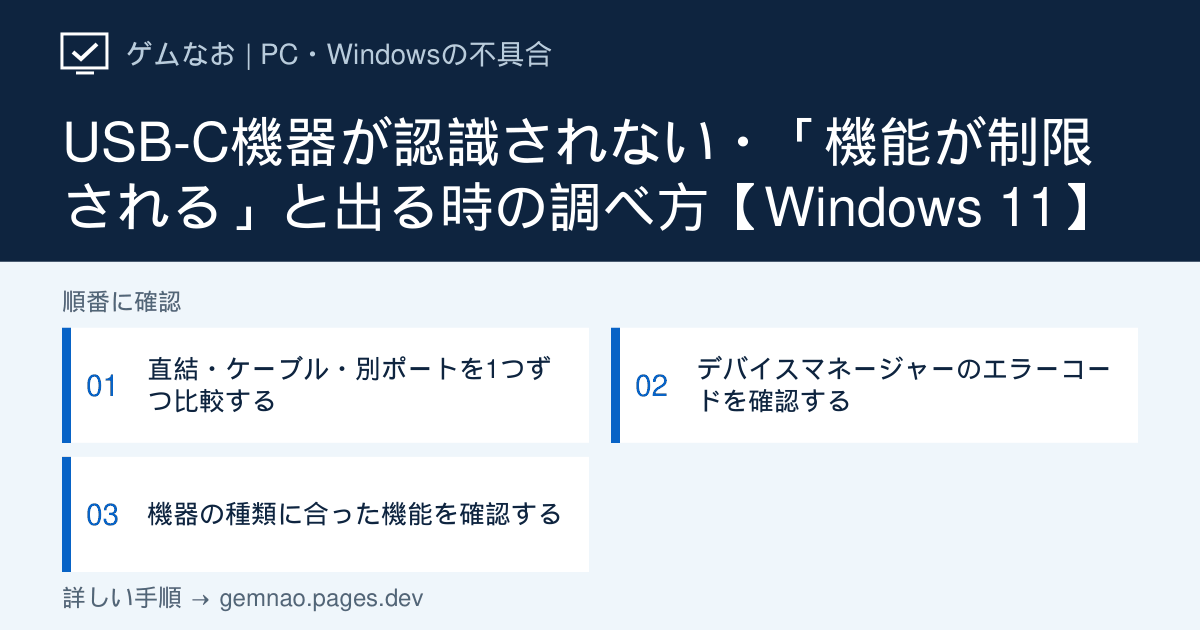
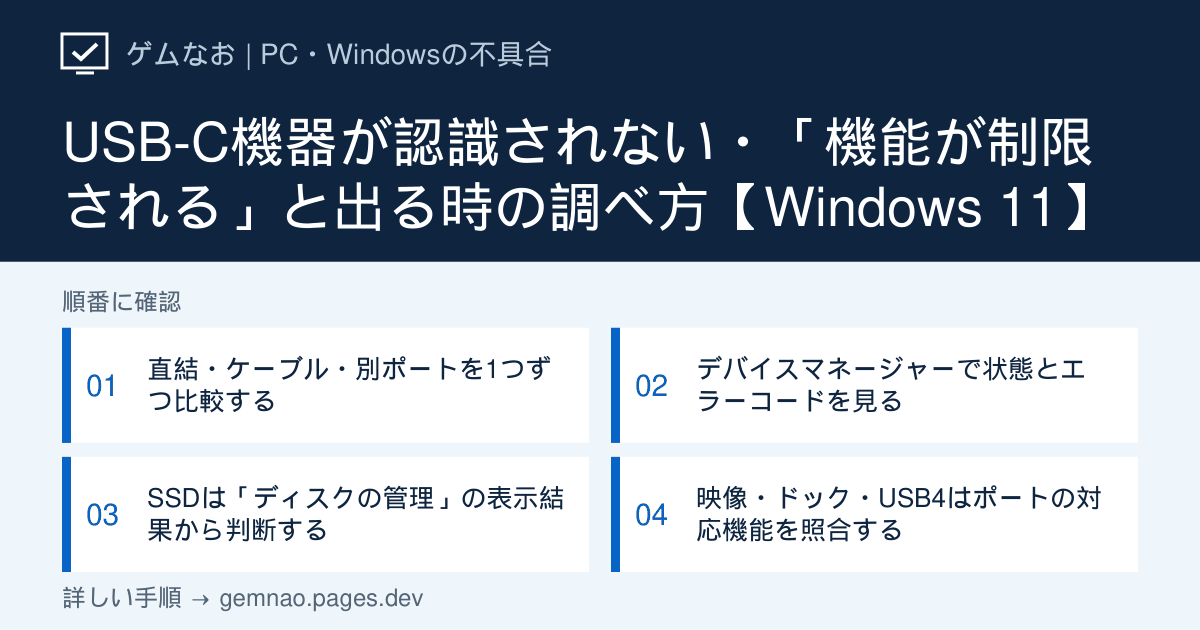
Clarify USB-C errors and storage outcomes

diff --git a/lib/pc-articles.ts b/lib/pc-articles.ts
@@ -13,6 +13,7 @@ export type PcArticle = {
   steps: {
     title: string;
     actions: string[];
+    resultRows?: { state: string; meaning: string; next: string }[];
     expected: string;
     unexpected: string;
     revert: string;
@@ -398,93 +399,163 @@ export const pcArticles: PcArticle[] = [
     shortTitle: 'USB-C機器が認識されない',
     seoTitle: 'USB-C機器が認識されない時の対処法｜Windows 11',
     description:
-      'USB-C機器が認識されない時、デバイスマネージャーのエラーコード、ケーブルとポートの機能、直結とハブを比べて切り分け。データを消さない確認手順。',
-    lead: 'USB-Cでつないだ周辺機器が使えない、または「USBデバイスが認識されません」「機能が制限される可能性があります」と出た場合の手順です。充電だけできる場合も含みます。',
+      'Windows 11でUSB-C機器が認識されない時の確認手順。ケーブル・ポート、コード28／43、SSDのディスク管理の表示結果、ドックやモニターの対応機能を分けて解説。',
+    lead: 'USB-Cの外付けSSD・ドック・モニターが使えない場合を、接続そのものの問題と機器ごとの機能の問題に分けます。「USBデバイスが認識されません」、充電だけできる、ディスク管理には表示される症状も対象です。',
     answer:
-      'まず機器を安全に取り外し、ハブを外して対応ケーブルでPCへ直接つなぎます。デバイスマネージャーで黄色い警告の「デバイスの状態」にコードがあれば記録し、機器の種類に合った公式手順へ進みます。USB-C端子は形が同じでも映像・充電・データの対応機能が異なります。',
+      'USB-C機器が認識されない時は、ハブを外してデータや映像に対応したケーブルで直結し、同じ機器を別ポートでも比べます。エラーコードはWindowsが報告した状態の手掛かりであり、コードだけでケーブルかドライバーかは断定できません。外付けSSDがエクスプローラーにない場合は「ディスクの管理」で表示状態を確認し、正常だがドライブ文字がない場合と、未初期化・RAWの場合を分けて対応します。',
     quickChecks: [
-      'USBストレージなら読み書きを終了し、安全な取り外しを行う',
-      'ハブを外し、付属または対応が明記されたケーブルで直結して比較',
-      'デバイスマネージャーの警告とエラーコードを控える',
+      'USBストレージを外す前にコピーを終了し、利用できる場合は安全な取り外しを行う',
+      'ハブを外し、付属の対応ケーブルで直結して、別ポートと結果を比べる',
+      '警告があればコードを控え、SSDなら「ディスクの管理」に表示されるか調べる',
     ],
     diagnosis: [
       {
-        symptom: '充電はできるがデータ機器として認識されない',
-        check: '別ケーブル・別ポート・直結で同じ機器を比べる',
+        symptom: '充電はできるがデータを転送できない',
+        check: '付属のデータ対応ケーブルで直結し、別ポートと比べる',
         next: 1,
       },
       {
         symptom: '「USBデバイスが認識されません」や黄色い警告',
-        check: 'デバイスの状態とエラーコードを記録',
+        check: 'デバイスの状態を記録し、コードだけで原因を決めない',
         next: 2,
       },
       {
-        symptom: 'USB-Cモニターやドックだけ映像が出ない',
-        check: 'PCのポート・ケーブルの映像出力対応を確認',
+        symptom: 'SSDがエクスプローラーに出ない',
+        check: 'ディスクの管理で容量・状態・ドライブ文字を確認',
         next: 3,
       },
       {
-        symptom: 'ストレージだけ表示されない',
-        check: 'ディスクの管理で状態を確認。初期化・フォーマットはしない',
+        symptom: 'SSDは「正常」だがドライブ文字がない',
+        check: 'システム領域でない外付けボリュームか照合',
         next: 3,
+      },
+      {
+        symptom: 'SSDが「未割り当て」「RAW」「初期化されていません」',
+        check: '以前のデータが必要か、未使用の新品かを先に分ける',
+        next: 3,
+      },
+      {
+        symptom: 'USB-Cモニターやドックだけ映像が出ない',
+        check: 'PCのポート・ドック・ケーブルの映像対応を照合',
+        next: 4,
+      },
+      {
+        symptom: '「USB4／Thunderboltの機能が制限される」と表示',
+        check: '機器が要求する規格とPCのポートの対応を確認',
+        next: 4,
       },
     ],
     steps: [
       {
         title: '直結・ケーブル・別ポートを1つずつ比較する',
         actions: [
-          'USBメモリや外付けSSDならコピーを終了し、タスクバーの「ハードウェアを安全に取り外してメディアを取り出す」で停止してから抜く。',
-          'PCのハブ／ドックを外し、機器付属または必要な規格に対応したケーブルでPCへ直接つなぐ。1つの変数だけ変えて、接続音・通知・アプリの認識を確認する。',
-          '同じ機器とケーブルで別ポート、可能なら別PCも比較する。充電専用ケーブルではデータや映像を扱えないことがあるので、ケーブルの仕様を製造元で確認する。',
+          '外付けSSDやUSBメモリでコピー中なら終了する。取り外しアイコンが使える場合はタスクバーの「ハードウェアを安全に取り外してメディアを取り出す」で停止してから抜く。',
+          'ハブ・ドックを外し、機器に付属するか必要なデータ／映像の対応が明記されたケーブルでPCに直結する。接続通知、エクスプローラーやアプリでの表示、映像の有無を記録する。',
+          '次に「同じ機器とケーブルのまま別ポート」→「同じポートで別の対応ケーブル」→可能なら「同じ機器とケーブルを別PC」の順に、一度に1つだけ変えて比べる。充電できてもケーブルがデータや映像に対応するとは限らない。',
         ],
         expected:
-          '直結で使えるなら、ハブ・給電・ケーブル・対応規格が原因候補。直結のまま必要な機能だけ戻す。',
+          '直結なら動く場合はハブ／ドックや給電が候補。ケーブルだけ替えて動けば元のケーブルが候補。別PCでは使えるなら元のPCのポートや設定を調べる。',
         unexpected:
-          'どのポートでも認識せず警告が出るならSTEP 2。別PCでは動くならPC側のポートや設定を確認。',
+          '接続通知や黄色い警告が出るならSTEP 2。SSDがデバイスとしては認識されるがエクスプローラーにないならSTEP 3。映像だけ出ないならSTEP 4。',
         revert:
-          '安全な取り外し後、元のポート／ハブ接続に戻す。復旧するまでデータ転送を再開しない。',
+          '比較後は機器の案内に従い、ストレージなら安全に取り外して配線を戻す。動作した組み合わせを記録し、元の故障する接続へ戻す必要はない。',
       },
       {
-        title: 'デバイスマネージャーのエラーコードを確認する',
+        title: 'デバイスマネージャーで状態とエラーコードを見る',
         actions: [
-          'スタートで「デバイス マネージャー」を検索して開く。接続した時に新たに出る項目、または黄色い「!」がある項目を探す。',
-          'その項目を右クリック→プロパティ→全般→「デバイスの状態」。コード28、43など表示された文字をそのまま記録する。似た名前の別の周辺機器は操作しない。',
-          'コードに対応するMicrosoftの「デバイス マネージャーのエラー コード」と機器製造元の案内を確認。更新直後なら製造元の対応ドライバーの有無を見る。',
+          'スタートを右クリック→「デバイス マネージャー」。USB機器を抜き差しし、「ユニバーサル シリアル バス コントローラー」「ディスク ドライブ」「ほかのデバイス」で新たに現れる名前や黄色い警告を確認する。',
+          '新たに現れた機器を右クリック→「プロパティ→全般→デバイスの状態」でメッセージとコードをそのまま控える。別の機器やPC本体のコントローラーを推測で削除しない。',
+          'コード28なら必要なドライバーがない状態なので、機器・PCの型番に合うWindows 11対応版を製造元から探す。コード43ならWindowsが機器の問題を受けて停止した状態なので、STEP 1のケーブル・ポート・別PCの結果を併せて判断する。',
         ],
         expected:
-          'コードがあれば、ケーブルの問題とドライバーの問題を分けて次の対象を特定できる。',
+          'コード28はドライバー不足を示す。コード43は機器またはドライバーなどの問題があり得る状態を示し、コード単独ではケーブル不良かどうかを特定できない。',
         unexpected:
-          'コードがなく一覧にも現れなければSTEP 1の別ポート・別PCの結果を優先。コード28は必要なドライバーの案内を機器メーカーで確認する。',
+          'コードがなくても、SSDが「ディスク ドライブ」に見えるならSTEP 3。モニターやドックの映像だけが失敗するならSTEP 4。機器自体が現れなければSTEP 1の結果を製造元に伝える。',
         revert:
-          'このSTEPは表示を読むだけで設定変更はない。コードの確認だけで不明な機器を「アンインストール」しない。',
+          '状態を見るだけなら変更はない。対応ドライバーを導入して別の不具合が起きたら、導入した版を控えて製造元の案内に従い元の版へ戻す。',
       },
       {
-        title: '機器の種類に合った機能を確認する',
+        title: 'SSDは「ディスクの管理」の表示結果から判断する',
         actions: [
-          'モニターやドックならPCの仕様書で使用ポートの映像出力・DisplayPort Alternate Mode／USB4対応、ケーブルの対応機能を確認。映像だけの問題なら2台目モニターの記事へ。',
-          '外付けSSDならスタートの右クリック→「ディスクの管理」を開き、対象の容量と状態だけ確認。未割り当てや初期化を求める表示が出ても、既存データが必要なら「初期化」「フォーマット」は押さない。',
-          '機器・ポート・ケーブルの組合せで機能が異なるため、製品型番と接続図を控えてメーカーへ問い合わせる。',
+          'スタートを右クリック→「ディスクの管理」を開く。対象のSSDを容量・製品名・抜き差しした時の表示の変化で照合し、内蔵のWindows用ディスクや別のボリュームを選ばない。',
+          '対象が「ディスクの管理」にあるかを見て、「オンライン／オフライン」「正常／未割り当て／RAW」「ドライブ文字（例：E:）の有無」を記録する。表示を読むだけではデータは変更されない。',
+          '以前のファイルが必要なら、初期化やフォーマットを求める画面は進めず閉じる。未使用の新品だと確信できる場合と分け、下の結果表から次の操作を選ぶ。',
+        ],
+        resultRows: [
+          {
+            state: 'ディスクの管理に対象の容量がない',
+            meaning: 'Windowsがストレージ部分まで見つけられていない。',
+            next: 'STEP 1の直結・別ケーブル・別PCを比較。別PCだけ表示されるならPC側のポートやドライバーを製造元で確認する。',
+          },
+          {
+            state:
+              'オンライン・正常、NTFS／exFATなどのボリュームにドライブ文字がない',
+            meaning:
+              'ボリュームは認識されているが、エクスプローラーで開くための文字が未割り当ての可能性。',
+            next: '外付けデータ用のボリュームと確認できた時だけ右クリック→「ドライブ文字とパスの変更」→「追加」→未使用の文字→OK。管理者権限が必要。C:やWindows・アプリの領域は変更しない。',
+          },
+          {
+            state: 'オンライン・正常、ドライブ文字もある',
+            meaning: '接続とボリュームの認識は進んでいる。',
+            next: 'エクスプローラー→「PC」で同じ文字を探し、既存ファイルが読めるか確認。開けない・アクセス拒否なら表示された文言を控え、フォーマットは選ばない。',
+          },
+          {
+            state: 'オフライン／容量0 B',
+            meaning:
+              '給電や接続、ディスクの状態など複数の原因があり、この表示だけでは確定しない。',
+            next: '接続・電源・別PCの結果を照合。必要なデータがあるなら、理由が不明なままオンライン化や修復操作を繰り返さず製造元へ相談する。',
+          },
+          {
+            state: '未初期化・未割り当て・RAWで、以前のデータが必要',
+            meaning:
+              'ファイルシステムや構成がWindowsから読めない場合がある。未使用とは判断できない。',
+            next: '初期化・新しいボリューム作成・フォーマットをしない。別ケーブルや別PCで一度だけ読めるか確認し、読めなければデータ復旧の相談へ。',
+          },
+          {
+            state: '未初期化・未割り当てで、データのない未使用の新品',
+            meaning: '新しいディスクの準備が必要な場合がある。',
+            next: '容量と番号を照合し、左側の「ディスク n」を右クリック→「ディスクの初期化」。次に黒い「未割り当て」領域を右クリック→「新しいシンプル ボリューム」→文字の割り当て→用途に合う形式でフォーマット。既存データが少しでも必要なら実行しない。',
+          },
         ],
         expected:
-          '仕様書の対応機能と実際の挙動が一致すれば、対応するポート・ケーブルへ変えて再確認できる。',
+          '正常な外付けデータボリュームに文字を追加した後、エクスプローラーの「PC」に現れて既存ファイルを開ければ、保存先は使える状態。',
         unexpected:
-          '対応している組合せでも使えず、別PCなら使える場合はPC製造元へ。ストレージのデータが必要なら書込み・修復操作前に相談する。',
+          '文字を追加できない／開けない場合は表示文を控える。以前使っていたSSDがRAWや未初期化なら、再作成せずデータ復旧を優先する。',
         revert:
-          'このSTEPも原則は確認のみ。接続変更は安全に取り外して元に戻す。',
+          '状態の確認だけなら変更なし。試しに追加したドライブ文字は同じボリュームの「ドライブ文字とパスの変更」から削除できるが、利用中のアプリやファイルを閉じてから行う。初期化・フォーマットは元に戻せない。',
+      },
+      {
+        title: '映像・ドック・USB4はポートの対応機能を照合する',
+        actions: [
+          'PCとドックの製品型番を控え、製品仕様で「使っているUSB-Cポート」が映像出力（DisplayPort Alternate Modeなど）やUSB4／Thunderboltをサポートするか確認する。端子の形と、USBデータ転送・充電・映像の対応は別。',
+          'モニターだけ映らなければ、映像対応の明記されたケーブルでPCから直結し、ドック経由の結果と比較する。ドックに給電端子がある場合はその製品の指定電源も確認。Windowsキー＋Pで「拡張」、設定→システム→ディスプレイ→「複数のディスプレイ」→「検出」で結果を見る。',
+          '「USB4／Thunderboltの機能が制限される」場合は、機器・ケーブル・ドック・PCのポートの対応規格を1つずつ照合。PCのポート自体が非対応なら、ドライバー操作だけでその機能を追加することはできない。',
+        ],
+        expected:
+          '直結なら映るがドック経由では映らない場合は、ドックの給電・対応規格・ケーブルが候補。Windowsが2台目を検出すれば、入力切替など表示側を確認する。',
+        unexpected:
+          '対応ポートとケーブルで直結しても検出しないならPC・モニターの型番、接続図、検出結果を製造元へ。2台目の表示だけが問題なら関連記事の分岐へ進む。',
+        revert:
+          'Windowsキー＋Pで変更前の表示モードに戻し、ドックやケーブルは接続機器の案内に従って元へ戻す。',
       },
     ],
     escalation:
-      'USB機器とPCの型番、ケーブル仕様、直結／ハブ／別ポート／別PCの結果、デバイスの状態のコードを記録。ストレージに既存データがある場合、初期化やフォーマットはしないでください。',
+      '相談時はPC・機器・ケーブル・ドックの型番、直結／ハブ／別ポート／別PCの結果、エラーコードを伝えます。SSDなら「ディスクの管理」に表示された容量・状態・ドライブ文字も控えてください。以前のデータが必要なディスクは、初期化・フォーマット前にデータ復旧の相談を優先します。',
     faqs: [
       {
-        question: 'USB-Cケーブルならどれでも映像が出ますか？',
+        question: 'コード43ならケーブルの故障ですか？',
         answer:
-          '端子が同じでもケーブル・ポート・ドックが対応する機能は異なります。PCと機器の仕様書で映像出力対応を確認してください。',
+          'コード43だけでは故障箇所を特定できません。同じ機器を対応ケーブル・別ポート・可能なら別PCで比べ、どの組み合わせで認識するかを記録します。',
       },
       {
-        question: 'デバイスマネージャーに警告がありません',
+        question: 'USB-Cで充電できるのに、映像だけ出ません',
         answer:
-          'Windowsにまだ認識されていない可能性もあります。ケーブル、直結、別ポート、別PCを比較し、対象機器に合った製造元の手順へ進みます。',
+          '充電できることと映像を出せることは別です。PCのそのポート、ケーブル、ドックに映像出力の対応があるかを確認し、STEP 4の直結テストで比較してください。',
+      },
+      {
+        question: '別のPCで外付けSSDが開ける場合は？',
+        answer:
+          '別PCでファイルが読めるなら必要なデータを先にバックアップし、同じケーブルを使って元のPCの別ポートでも比べます。元のPCだけ失敗するならそのPCのポート・ドライバー・ディスクの管理の状態を控えます。',
       },
     ],
     sources: [
@@ -497,6 +568,14 @@ export const pcArticles: PcArticle[] = [
         'hardware/display-graphics/troubleshoot-external-monitor-connections-in-windows',
         '外部モニターの接続',
       ),
+      {
+        title: 'Microsoft Learn：ドライブ文字を割り当てる',
+        url: 'https://learn.microsoft.com/ja-jp/windows-server/storage/disk-management/change-a-drive-letter',
+      },
+      {
+        title: 'Microsoft Learn：新しいディスクの初期化と既存データへの注意',
+        url: 'https://learn.microsoft.com/ja-jp/windows-server/storage/disk-management/initialize-new-disks',
+      },
     ],
     related: [
       {
@@ -504,7 +583,7 @@ export const pcArticles: PcArticle[] = [
         label: '2台目のモニターが見つからない',
       },
     ],
-    checkedAt: '2026-09-28',
+    checkedAt: '2026-09-29',
   },
   {
     slug: 'second-monitor-not-detected',

diff --git a/app/pc/[slug]/page.tsx b/app/pc/[slug]/page.tsx
@@ -185,6 +185,29 @@ export default async function PcArticlePage({
                     <li key={action}>{action}</li>
                   ))}
                 </ol>
+                {step.resultRows && (
+                  <div className="diagnosis-table pc-result-guide">
+                    <h4>表示された結果と次の行動</h4>
+                    <table>
+                      <thead>
+                        <tr>
+                          <th scope="col">表示された状態</th>
+                          <th scope="col">分かること</th>
+                          <th scope="col">次の行動</th>
+                        </tr>
+                      </thead>
+                      <tbody>
+                        {step.resultRows.map((row) => (
+                          <tr key={row.state}>
+                            <td data-label="状態">{row.state}</td>
+                            <td data-label="判断">{row.meaning}</td>
+                            <td data-label="次の行動">{row.next}</td>
+                          </tr>
+                        ))}
+                      </tbody>
+                    </table>
+                  </div>
+                )}
                 <dl className="pc-step-results">
                   <div>
                     <dt>正常な結果・分かったこと</dt>

diff --git a/lib/og-image-manifest.ts b/lib/og-image-manifest.ts
@@ -118,7 +118,7 @@ export const ogImageManifest: Record<string, string> = {
   "/pc/call-starts-audio-disappears": "045c5c84",
   "/pc/microphone-after-update": "1d673823",
   "/pc/second-monitor-not-detected": "95cad41e",
-  "/pc/usb-c-device-not-recognized": "7217ab11",
+  "/pc/usb-c-device-not-recognized": "c3fbb206",
   "/trouble/mod": "aac0f787",
   "/trouble/server": "c6d1a835"
 };

diff --git a/app/globals.css b/app/globals.css
@@ -3227,6 +3227,14 @@ kbd {
   padding: 5px 0;
   line-height: 1.85;
 }
+.pc-result-guide {
+  margin: 0 0 20px;
+}
+.pc-result-guide h4 {
+  margin: 0 0 12px;
+  font-size: 18px;
+  line-height: 1.5;
+}
 .pc-step-results {
   margin: 0;
   display: grid;
